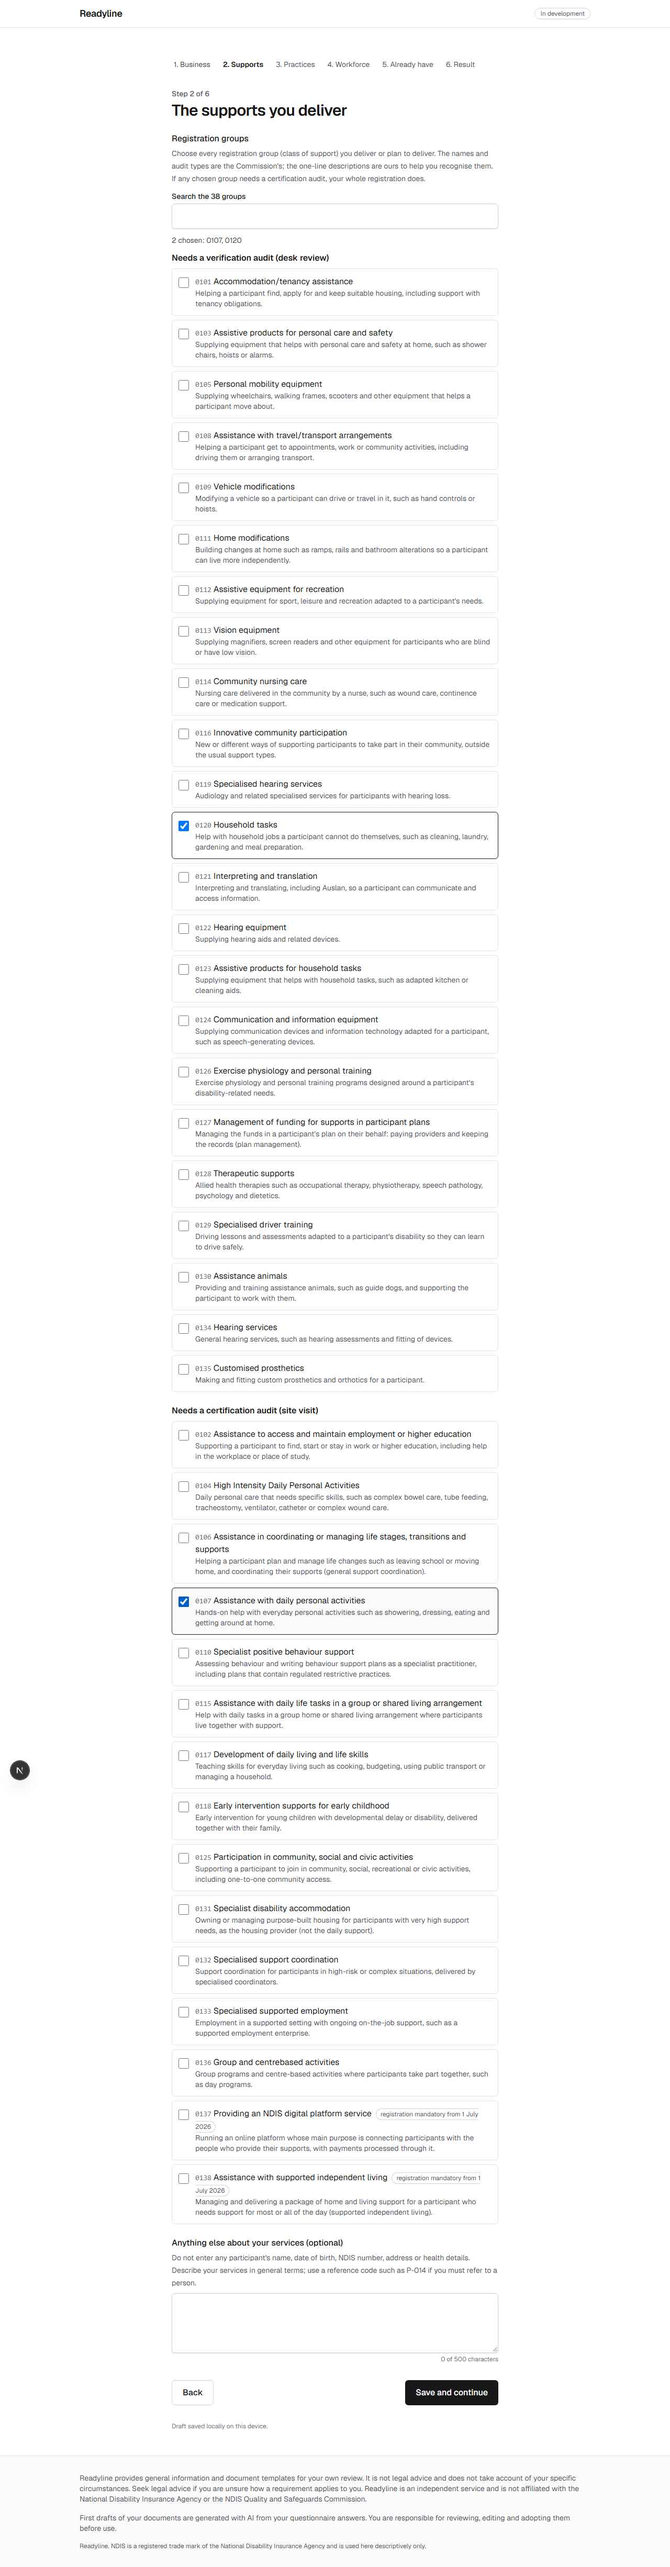
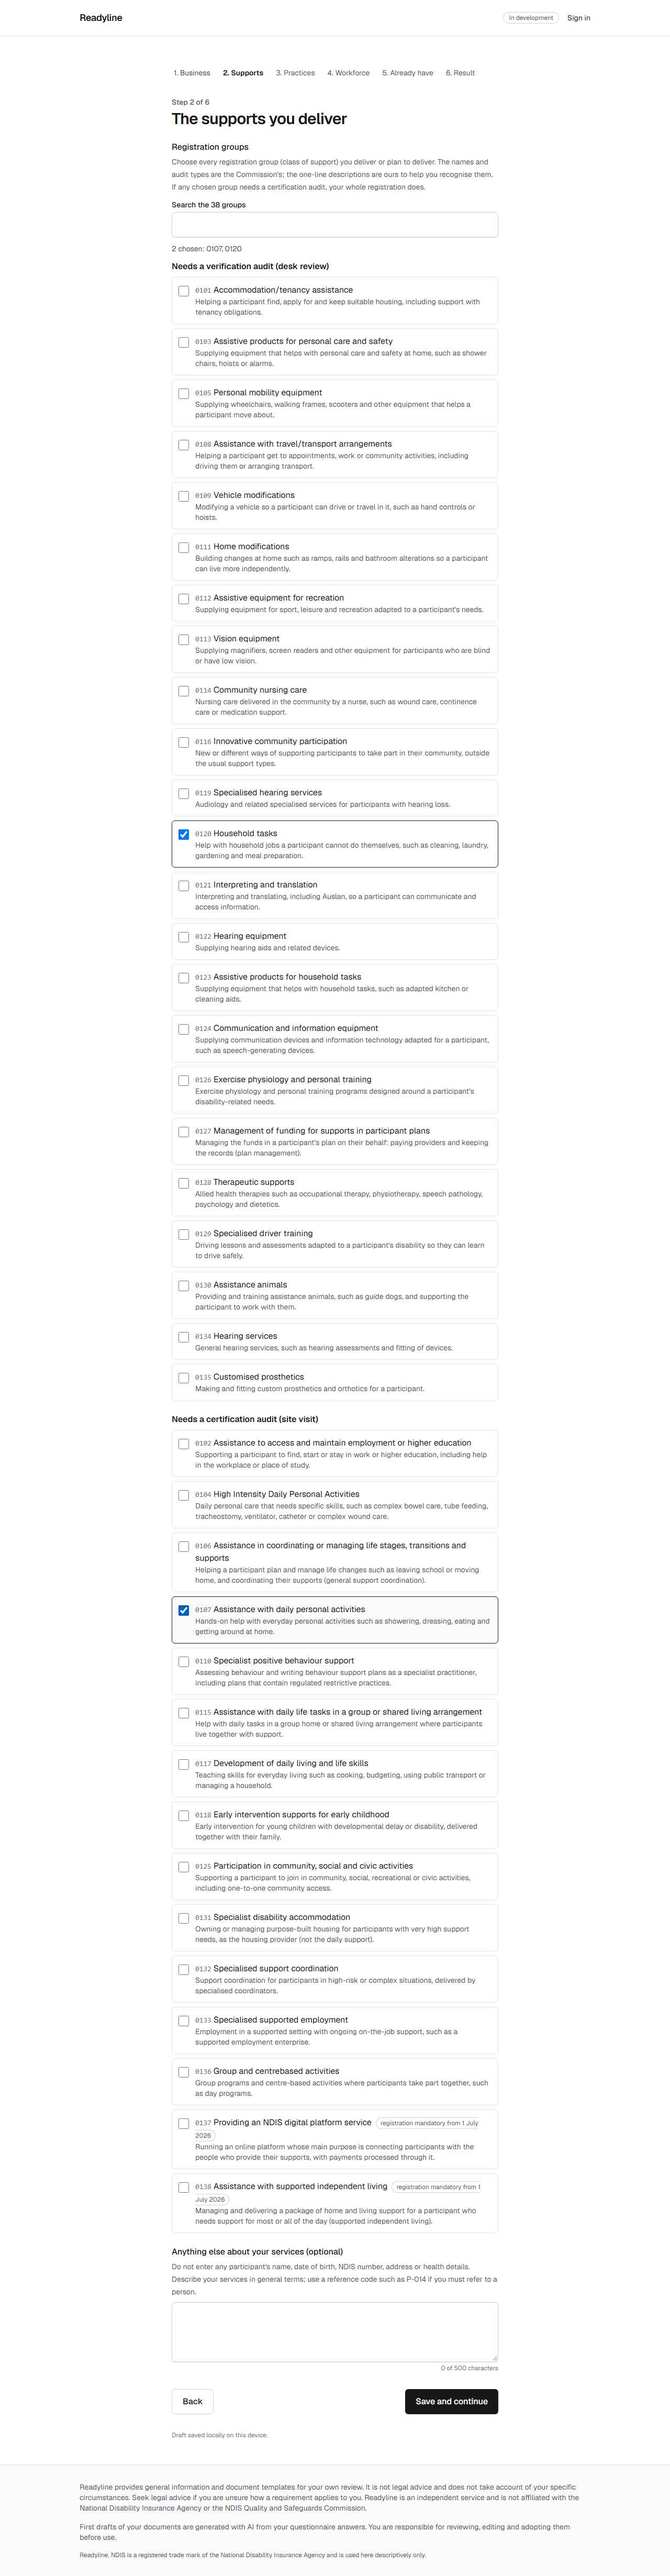
REQ-003: PO batch-5 items: 'To prepare' labels with legend, 'What happens next' block, evidence screenshots re-captured from next start

Changed region(s): [[0.25, 0.0312, 0.7188, 0.9048], [0.125, 0.0, 0.1562, 0.0312], [0.0, 0.6864, 0.0312, 0.7176]]

diff --git a/src/app/start/_components/steps/result-step.tsx b/src/app/start/_components/steps/result-step.tsx
@@ -1,6 +1,7 @@
 "use client";
 import Link from "next/link";
 import { useEffect, useMemo, useState } from "react";
+import { BRAND } from "@/lib/brand";
 import { stepHref } from "@/lib/questionnaire/navigation";
 import { ANSWERS_VERSION } from "@/lib/questionnaire/schema";
 import type { QuestionnaireResult } from "@/lib/questionnaire/result";
@@ -11,7 +12,7 @@ const HAVE_LABEL: Record<string, string> = {
   yes: "You said you have this",
   no: "You said you do not have this yet",
   "not-sure": "You were not sure",
-  unknown: "Not asked yet",
+  unknown: "To prepare",
 };
 
 type Fetch = {
@@ -221,9 +222,13 @@ function ResultView({
         <h2 id="documents-heading" className="text-xl font-semibold">
           Documents you will need ({r.documents.length})
         </h2>
-        <p className="mt-2 text-sm leading-6 text-zinc-600 dark:text-zinc-400">
-          A first-pass list from the modules above. Items marked from what you
-          told us in the last step.
+        <p
+          className="mt-2 text-sm leading-6 text-zinc-600 dark:text-zinc-400"
+          data-testid="have-legend"
+        >
+          A first-pass list from the modules above. &ldquo;You said&rdquo;
+          labels come from your answers in the last step; &ldquo;To
+          prepare&rdquo; means the questionnaire did not ask about that item.
         </p>
         <ul className="mt-3 divide-y divide-zinc-200 dark:divide-zinc-800">
           {r.documents.map((d) => (
@@ -244,6 +249,9 @@ function ResultView({
         <h2 id="registers-heading" className="text-xl font-semibold">
           Registers to keep after registration
         </h2>
+        <p className="mt-2 text-sm leading-6 text-zinc-600 dark:text-zinc-400">
+          Same labels as the documents list.
+        </p>
         <ul className="mt-3 divide-y divide-zinc-200 dark:divide-zinc-800">
           {r.registers.map((x) => (
             <li
@@ -265,6 +273,21 @@ function ResultView({
       >
         {r.notice}
       </p>
+
+      <section
+        aria-labelledby="next-heading"
+        className="rounded-md border border-zinc-200 p-4 dark:border-zinc-800"
+        data-testid="what-next"
+      >
+        <h2 id="next-heading" className="text-xl font-semibold">
+          What happens next
+        </h2>
+        <p className="mt-2 leading-7">
+          {BRAND} will draft these documents for you and keep your registers
+          audit-ready. Sign-in and the document pack are coming in the next
+          releases.
+        </p>
+      </section>
 
       <div className="flex flex-col gap-3 sm:flex-row">
         <Link

diff --git a/e2e/questionnaire.spec.ts b/e2e/questionnaire.spec.ts
@@ -95,6 +95,12 @@ test.describe("questionnaire", () => {
     await expect(page.getByTestId("draft-status")).toContainText(
       "Draft saved locally on this device",
     );
+    // PO batch 5: legend and labels, and the claim-free "what happens next" block.
+    await expect(page.getByTestId("have-legend")).toContainText("To prepare");
+    await expect(page.getByText("Not asked yet")).toHaveCount(0);
+    await expect(page.getByTestId("what-next")).toContainText(
+      "What happens next",
+    );
   });
 
   test("[0120, 0107] is certification with the core module and a mid-term audit (AC-2)", async ({

diff --git a/product/requirements/REQ-003-questionnaire.md b/product/requirements/REQ-003-questionnaire.md
@@ -154,6 +154,15 @@ Routes `/start` (intro with resume and clear-draft controls) and `/start/[step]`
 
 **Deviations and notes:** `@axe-core/playwright` added as a dev dependency (D-307). Evidence images are JPEG at quality 40 to keep the repo small (D-308). The `document-sets.json` conditions are a Readyline reading of the PO's bracketed notes (D-304). The branch is stacked on REQ-002 (D-301); after REQ-002 merges it needs a rebase onto `main` before its own PR is merged. Not merged; PO reviews the UI.
 
+### 2026-10-11, PO batch 5: UI review items, branch rebuilt
+
+Branch rebuilt as `req-003-questionnaire-rebuilt` on the rebuilt REQ-002 head (`main` already carries the Session A to C code through the PO's batch-5 commit afeab24; see the REQ-002 batch-5 note). The force-push of the original branch name is blocked for Dev in this session; the PO or Haider replaces `req-003-questionnaire` with this branch (commands in the batch-5 Dev status).
+
+1. Labels: items the questionnaire did not ask about now read "To prepare"; "You said you do not have this yet" stays for the ones it did. A one-line legend sits above the documents list (`data-testid="have-legend"`) and a short "Same labels as the documents list" line above the registers.
+2. "What happens next" block at the bottom of the result page (`data-testid="what-next"`), PO wording verbatim with the brand constant, no email capture. Note for the PO: because `main` now carries REQ-004, the header on the same page already shows "Sign in"; the sentence "Sign-in and the document pack are coming in the next releases" can be shortened to the document pack when REQ-004 is accepted.
+3. Screenshots re-captured from the production server (`next start`, Playwright CI mode) for all seven steps on both projects; no dev overlay badge in any image. Same file names in `product/evidence/req-003/`.
+
+Tests: the AC-1 happy path now asserts the legend, that "Not asked yet" no longer appears, and the "What happens next" block. Local on this commit: `npm run check` clean (244 unit tests), `npm run build` ok, questionnaire and axe specs in CI mode 24 passed on both projects, screenshot spec 2 passed.
 ## PO review
 (PO fills in.)
 
